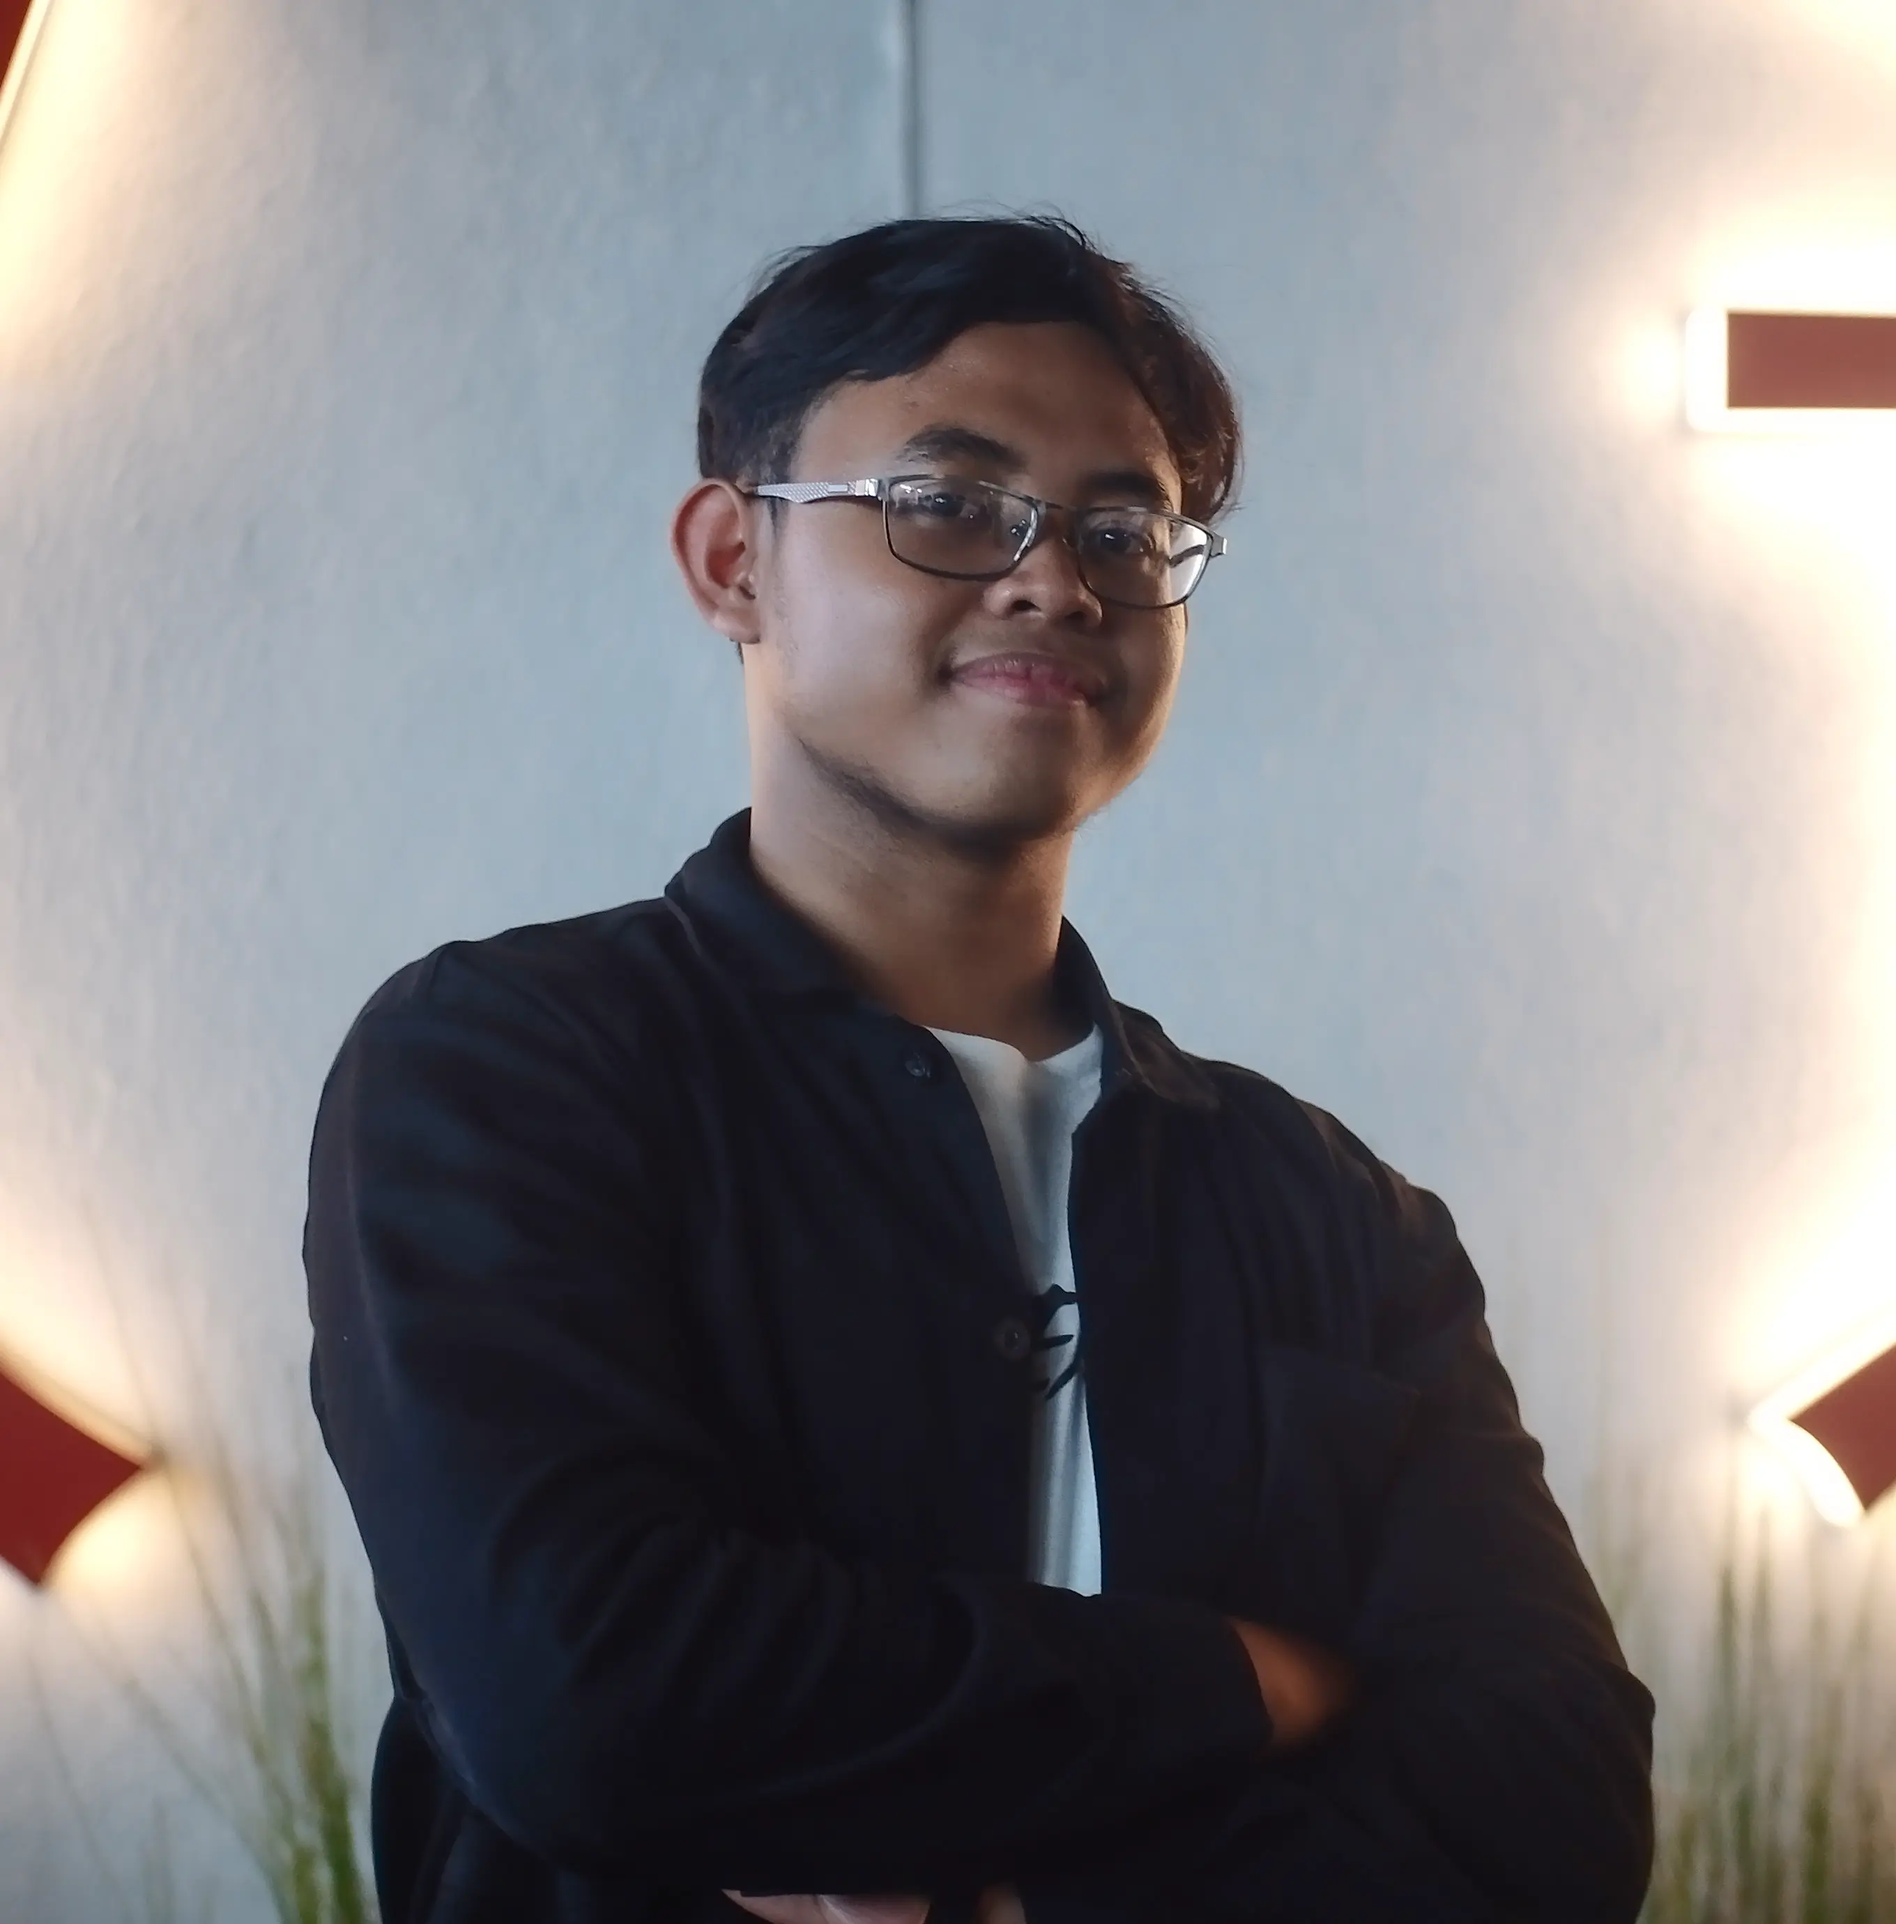
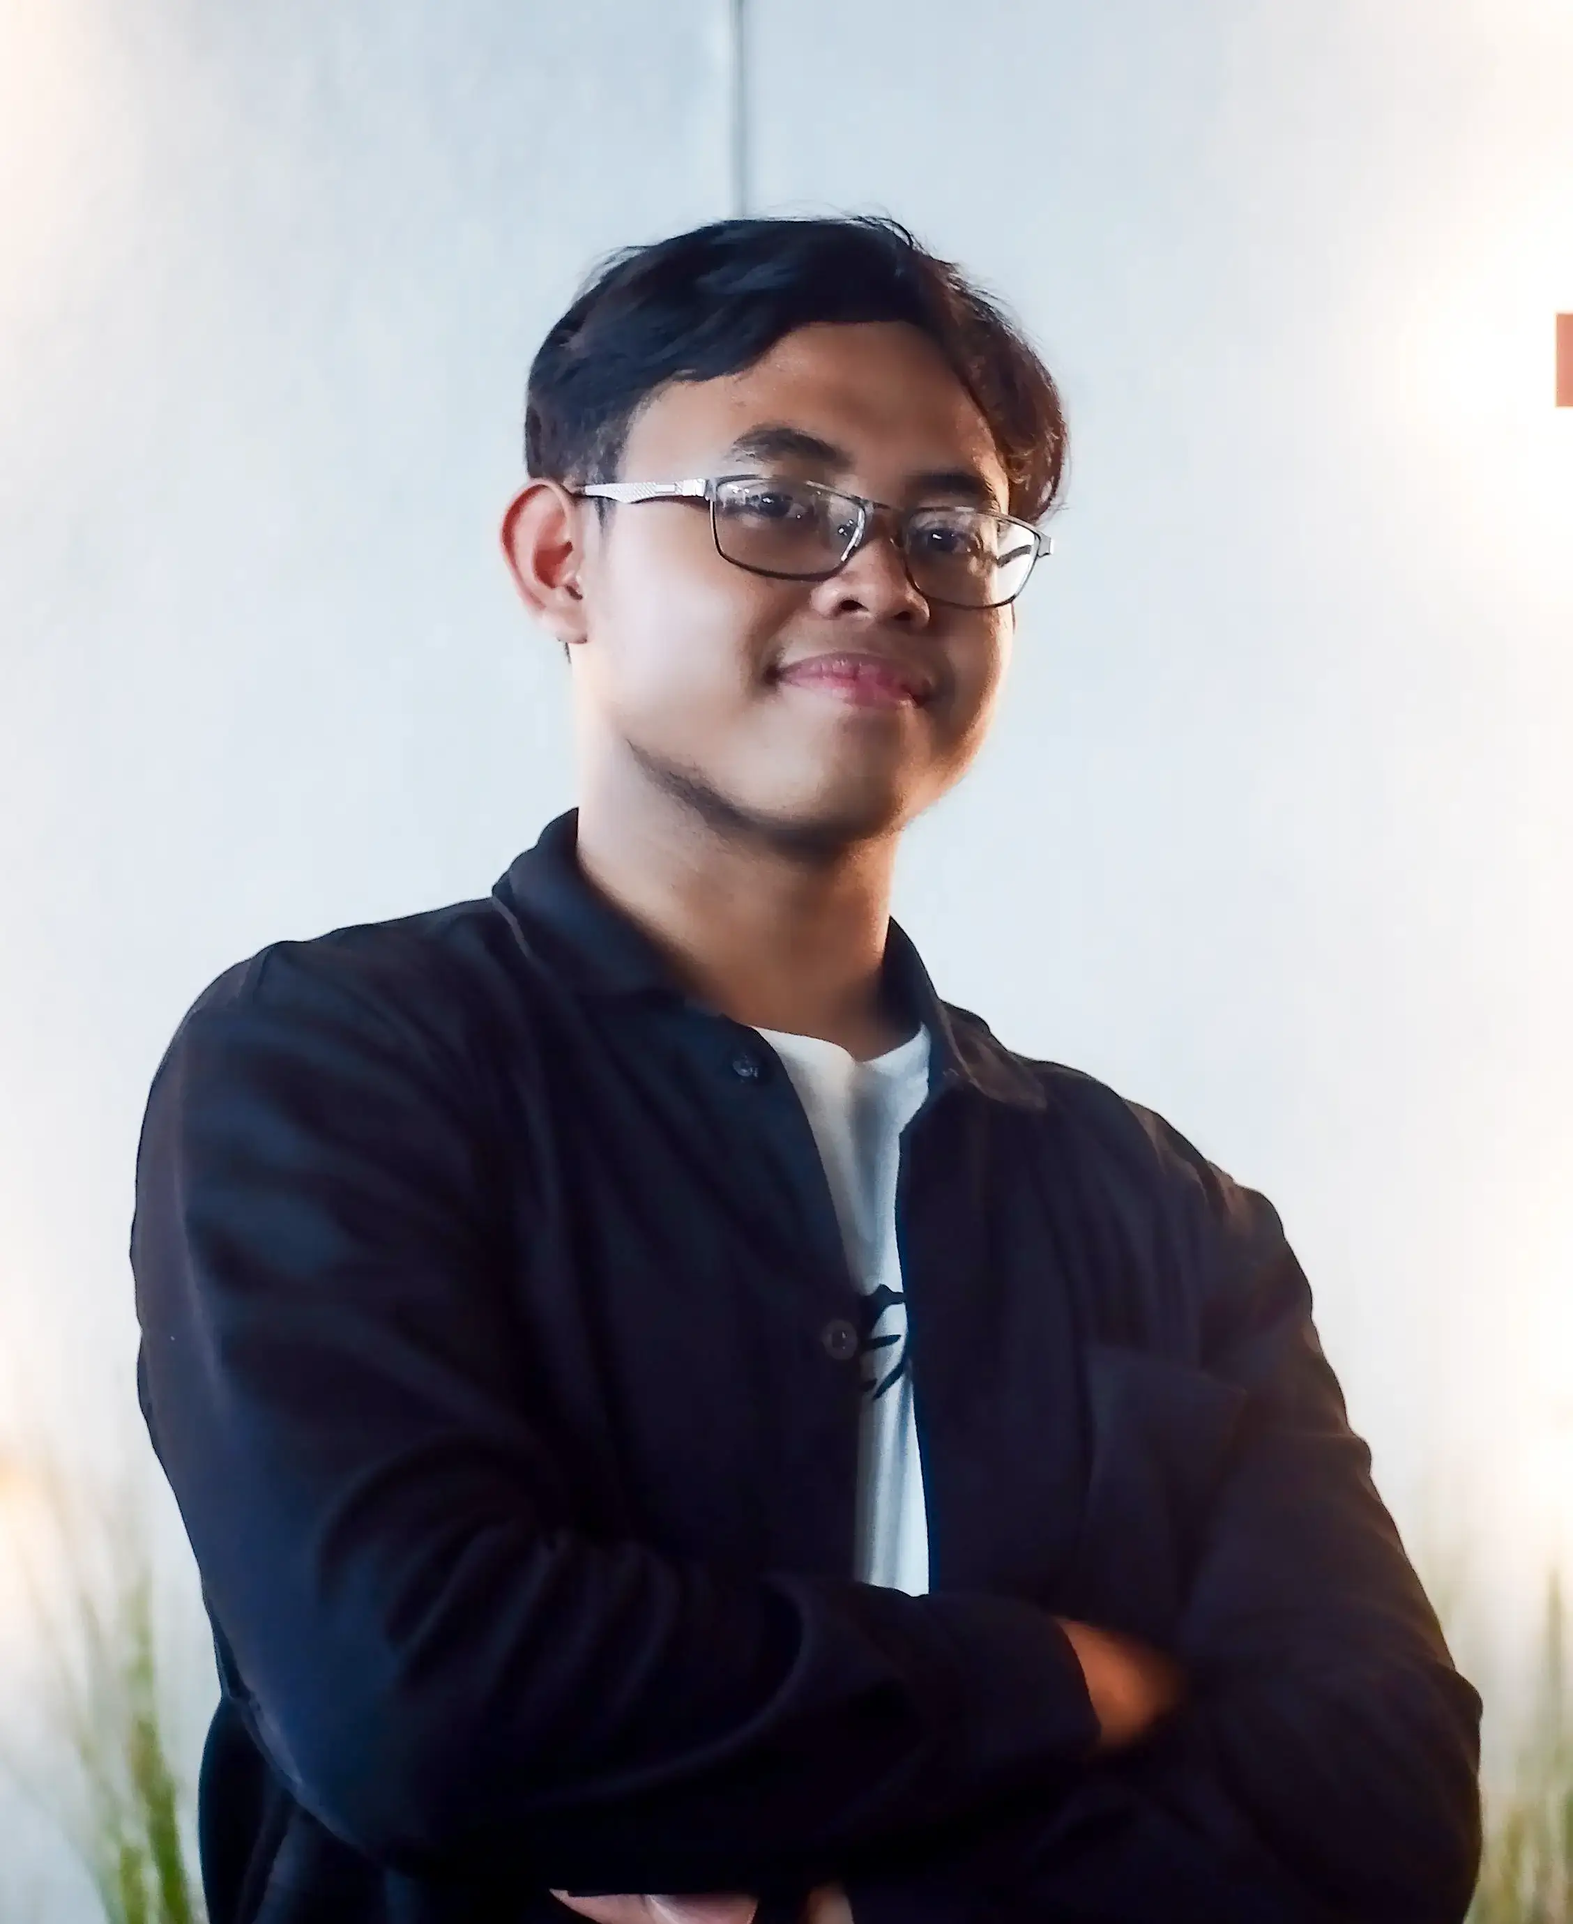
New

diff --git a/index.html b/index.html
@@ -15,6 +15,45 @@
       media="(prefers-color-scheme: dark)"
     />
     <meta name="viewport" content="width=device-width, initial-scale=1.0" />
+
+    <meta
+      name="description"
+      content="Temukan portofolio web saya yang berisi project kreatif, desain modern, dan aplikasi interaktif menggunakan Svelte, Tailwind CSS, serta teknologi web terbaru."
+    />
+    <meta
+      name="keywords"
+      content="portofolio, frontend developer, svelte, tailwind css, web developer, ui/ux"
+    />
+    <meta name="author" content="Aflah Mahdi Yazdi" />
+
+    <!-- Deskripsi Open Graph -->
+    <meta property="og:title" content="MyPorto - Web Portofolio" />
+    <meta
+      property="og:description"
+      content="Temukan portofolio web saya yang berisi project kreatif, desain modern, dan aplikasi interaktif menggunakan Svelte, Tailwind CSS, serta teknologi web terbaru."
+    />
+    <meta
+      property="og:image"
+      content="https://myportowebportofolio.netlify.app/images/personal.webp"
+    />
+    <meta
+      property="og:url"
+      content="https://myportowebportofolio.netlify.app"
+    />
+    <meta property="og:type" content="website" />
+
+    <!-- Deskripsi untuk Twitter Card -->
+    <meta name="twitter:card" content="summary_large_image" />
+    <meta name="twitter:title" content="MyPorto - Web Portofolio" />
+    <meta
+      name="twitter:description"
+      content="Temukan portofolio web saya yang berisi project kreatif, desain modern, dan aplikasi interaktif menggunakan Svelte, Tailwind CSS, serta teknologi web terbaru."
+    />
+    <meta
+      name="twitter:image"
+      content="https://myportowebportofolio.netlify.app/images/personal.webp"
+    />
+    
     <title>MyPorto - Web Portofolio</title>
   </head>
   <body class="scroll-smooth">
